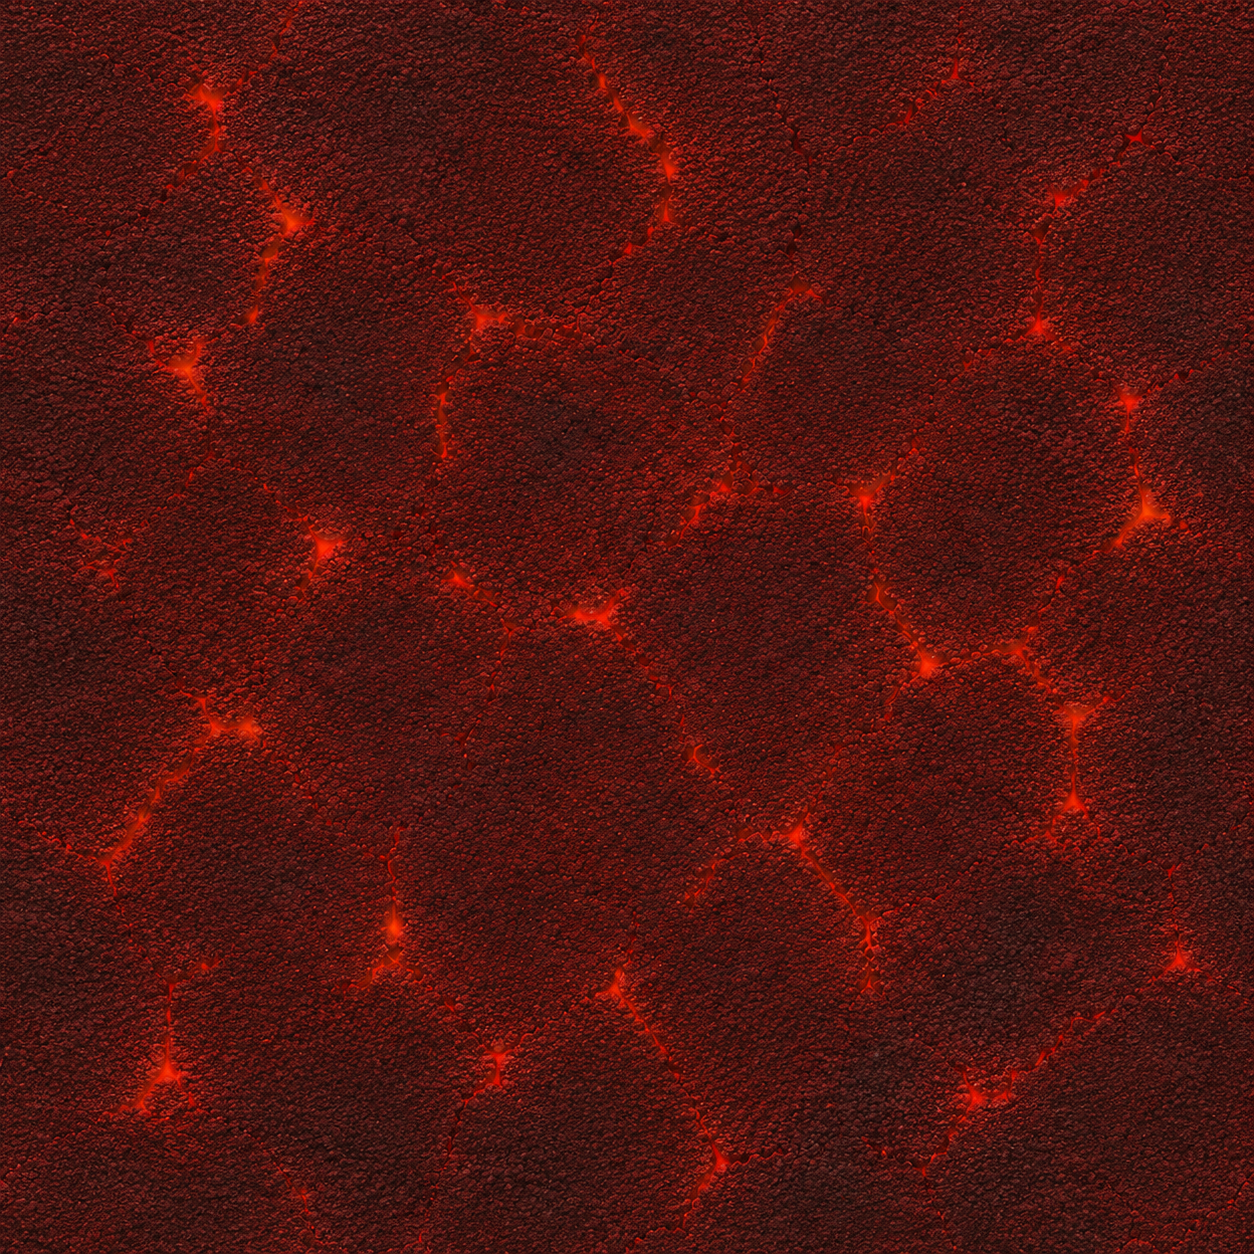
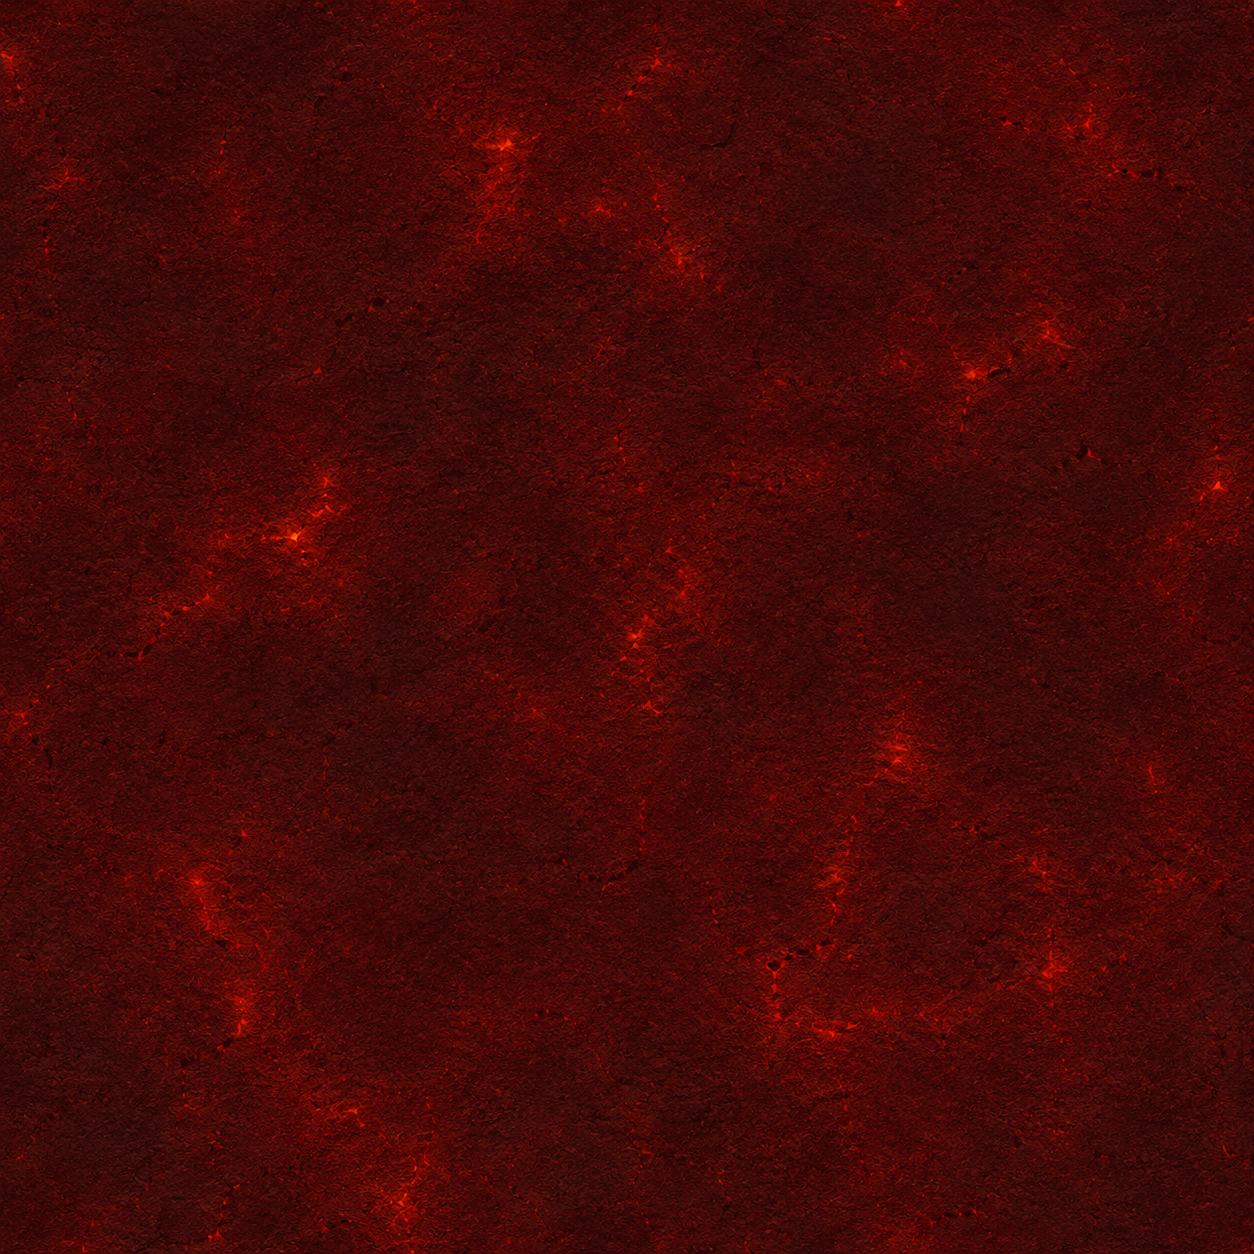
working without the menu

diff --git a/render/draw_maze.py b/render/draw_maze.py
@@ -63,7 +63,7 @@ def draw_maze(
 
         visual_path = [
             (door_entry_y, door_entry_x),
-            *path
+            *path,
         ]
 
         for (y, x) in visual_path[:-1]:
@@ -72,11 +72,9 @@ def draw_maze(
         current_y, current_x = visual_path[-1]
 
         if (current_y, current_x) == (exit_y, exit_x):
+            solved_grid[current_y][current_x] = 4
             current_y, current_x = door_exit_y, door_exit_x
-
         solved_grid[current_y][current_x] = 3
-
-        #solved_grid[current_y][current_x] = 3
 
     for grid_y, row in enumerate(solved_grid):
         for grid_x, cell in enumerate(row):
@@ -115,7 +113,7 @@ def draw_maze(
                     screen_x,
                     screen_y
                 )
-
+"""
             # ENTRY
             if (grid_x, grid_y) == (door_entry_x, door_entry_y):
                 mlx.mlx_put_image_to_window(
@@ -125,3 +123,4 @@ def draw_maze(
                     screen_x,
                     screen_y
                 )
+"""

diff --git a/render/mlx_renderer.py b/render/mlx_renderer.py
@@ -26,7 +26,6 @@ def close(param) -> None:
 
 def key_hook(key, param) -> None:
     """Close with ESC"""
-
     ESC_KEY = 65307
 
     if key == ESC_KEY:
@@ -132,7 +131,7 @@ def mlx_window(maze: Maze,
     def on_loop(param) -> None:
         now = time.time()
         if (frame[0] <= len(path) and
-            now - last_time[0] >= 0.03):
+            now - last_time[0] >= 0.05):
             draw_maze(
                 maze,
                 mlx,

diff --git a/a_maze_ing.py b/a_maze_ing.py
@@ -19,7 +19,7 @@ if __name__ == "__main__":
         # mazegen.render(show_path=False)
         mazegen.export(config["OUTPUT_FILE"])
         # print_maze_file(config["OUTPUT_FILE"])
-        mlx_window(maze, path, "normal")
+        mlx_window(maze, path, "gothic")
     except Exception as e:
         print(f"Error: {e}")
 

diff --git a/render/converter.py b/render/converter.py
@@ -27,7 +27,7 @@ def convert_to_xpm(png_path: str, xpm_path: str) -> None:
     Convert PNG -> XPM using ImageMagick
     """
 
-    os.system(f"magick {png_path} {xpm_path}")
+    os.system(f"convert {png_path} {xpm_path}")
 
 
 def generate_all_assets(tile_size: int) -> None:
